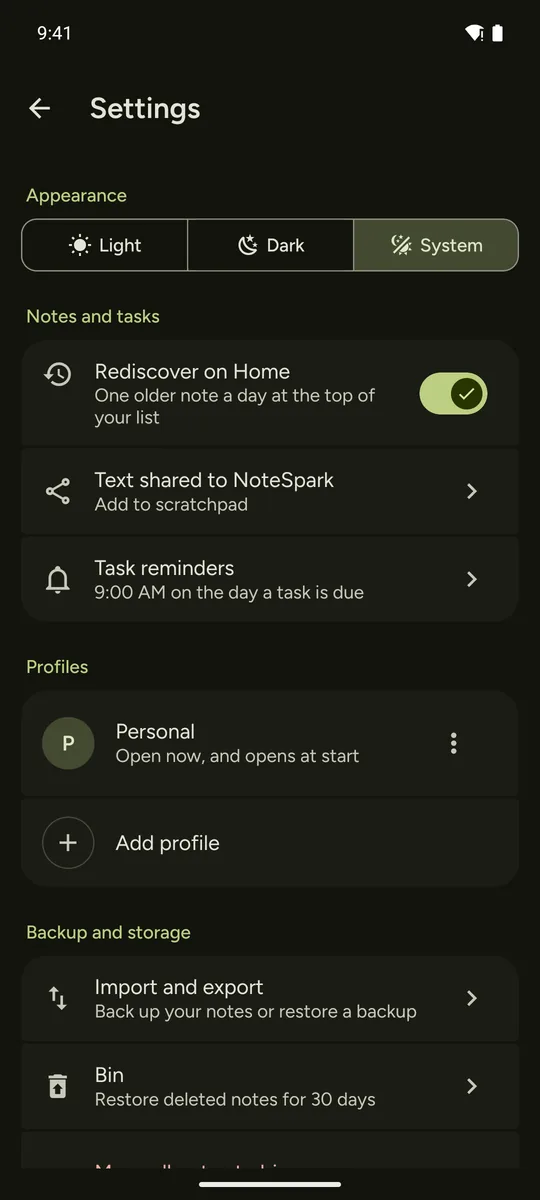
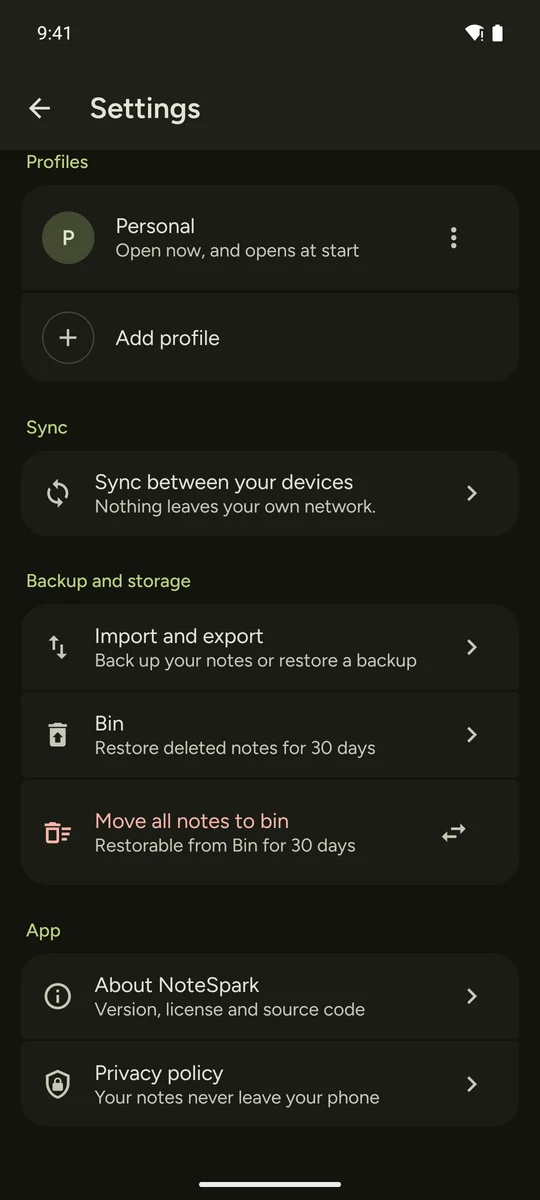
Website: new phone screenshots from the current release build

diff --git a/web/index.html b/web/index.html
@@ -140,10 +140,10 @@
           </figure>
           <figure>
             <div class="phone">
-              <img class="shot-light" src="./assets/screens/settings-light.webp" alt="Settings: theme, notes and tasks, profiles, backups" width="540" height="1200" loading="lazy" />
-              <img class="shot-dark" src="./assets/screens/settings-dark.webp" alt="Settings: theme, notes and tasks, profiles, backups" width="540" height="1200" loading="lazy" />
+              <img class="shot-light" src="./assets/screens/settings-light.webp" alt="Settings: profiles, optional sync on your own network, backup and storage, privacy policy" width="540" height="1200" loading="lazy" />
+              <img class="shot-dark" src="./assets/screens/settings-dark.webp" alt="Settings: profiles, optional sync on your own network, backup and storage, privacy policy" width="540" height="1200" loading="lazy" />
             </div>
-            <figcaption><strong>Settings</strong><span>Light, dark or your phone's theme, profiles and backups.</span></figcaption>
+            <figcaption><strong>Settings</strong><span>Profiles, optional sync on your own network, backups and the bin.</span></figcaption>
           </figure>
         </div>
       </div>
